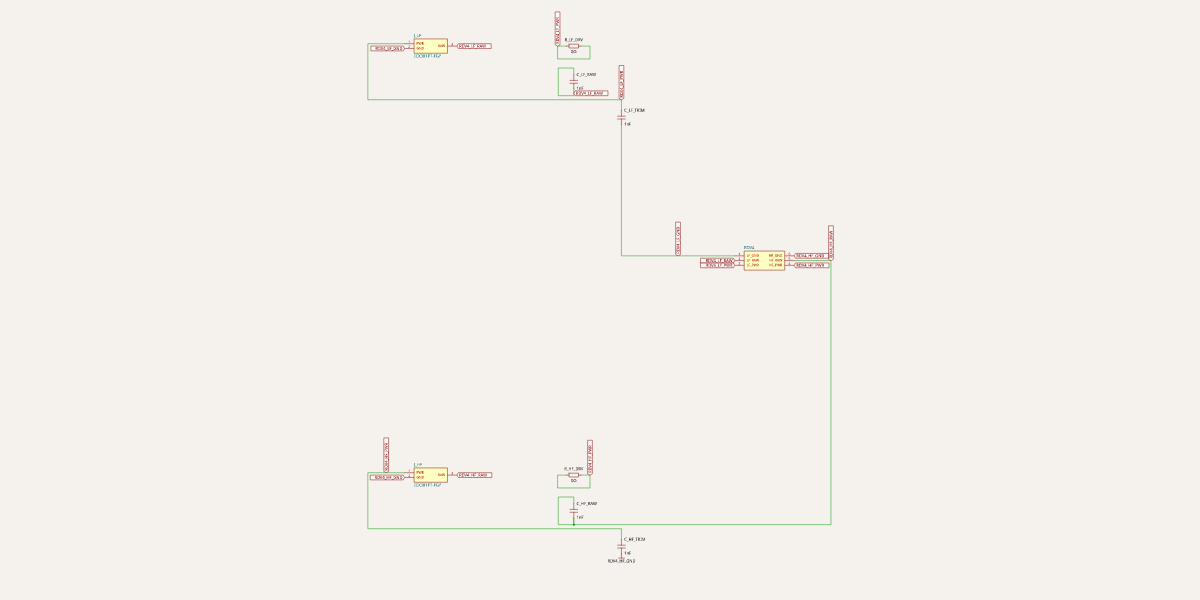
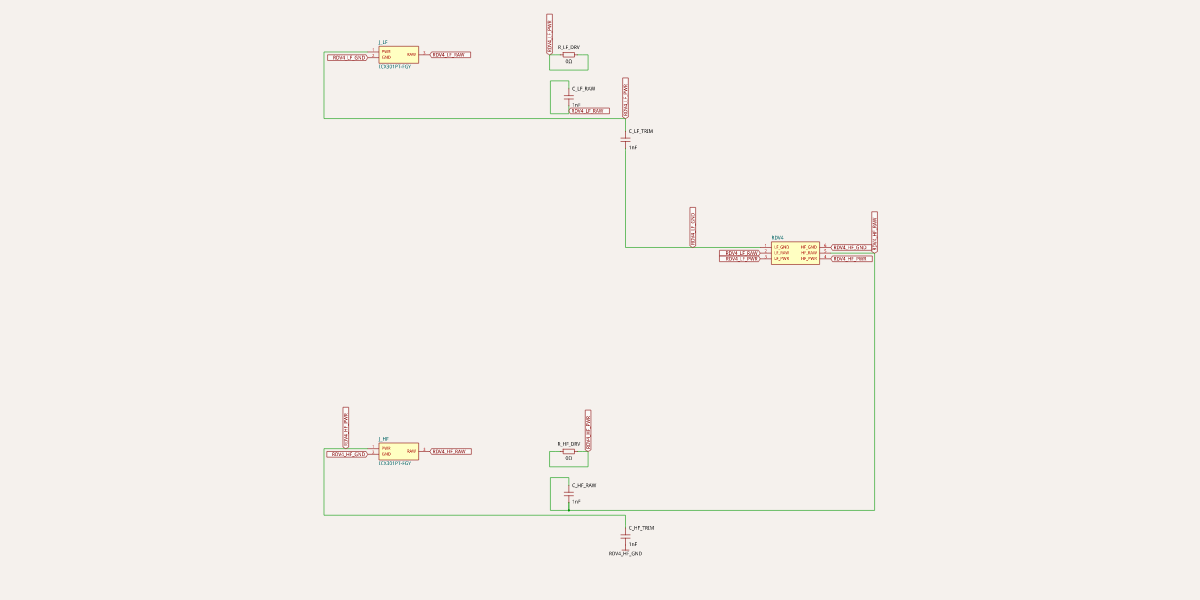
Place ICX301 connectors on top board edge (facing off-board, 22.1mm PM5 pitch); insertionDirection + decoupled passives

diff --git a/adapter/adapter.tsx b/adapter/adapter.tsx
@@ -3,13 +3,15 @@
  *
  *   PM5 mainboard (ICX301 male)
  *        │  plugs into
- *   ┌────────────────────────────────┐
- *   │ RDV4 col    ICX301-F x2 (LF/HF) │
- *   │ (left edge)      (inboard)      │
- *   │   …function-to-function RF…     │  optional trim pads (DNP)
- *   └────────────────────────────────┘
- *   RDV4 side = one vertical column of 6 round M1.6 SMT-nut lands
- *   (LF trio top, HF trio bottom); the antenna screws/clamps onto them.
+ *          ICX301-F x2  (top edge, mate the PM5, ~22.1 mm pitch)
+ *   ┌────────┴───────────────┴────────┐
+ *   │ RDV4 │  trim pads (DNP)         │
+ *   │ col  │  …function-to-function…  │
+ *   │(left)│                          │
+ *   └──────────────────────────────────┘
+ *   PM5 side  = two ICX301-F connectors on the TOP edge, mating face off-board.
+ *   RDV4 side = one vertical column of 6 round M1.6 SMT-nut lands on the LEFT
+ *   edge (LF trio top, HF trio bottom); the antenna screws/clamps onto them.
  *
  * Wiring is FUNCTION-TO-FUNCTION per band (never straight-through by position,
  * because the two boards mirror + band-swap — see README):
@@ -29,18 +31,22 @@ import { Rdv4Interface } from "./rdv4-pads";
 
 // ── Board / placement stubs ───────────────────────────────────────────────
 // TODO: real layout once ICX301PT-FGY + RDV4 mechanicals are confirmed.
-const BOARD_W = 42; // mm  TODO
-const BOARD_H = 45; // mm  TODO
-// RDV4 pad column sits on the board EDGE (like the antenna's own drawing) so the
-// antenna lines up flush; ICX301 connectors sit inboard of it.
+const BOARD_W = 44; // mm  TODO
+const BOARD_H = 46; // mm  TODO
+// RDV4 pad column on the LEFT edge (matches the antenna's own drawing).
 const RDV4_X = -(BOARD_W / 2) + 3; // mm, RDV4 column ~3 mm from left edge  TODO
-const CONN_X = 6; // mm, PM5-side ICX301 connectors (inboard)  TODO
-const LF_Y = 9; // mm, LF connector Y (aligns w/ upper RDV4 trio)  TODO
-const HF_Y = -9; // mm, HF connector Y (aligns w/ lower RDV4 trio)  TODO
-// PM5 mating geometry (proxmark3/doc/img/pm5/icx301-and-10p-header.jpg): the two
-// ICX301 connectors are SIDE-BY-SIDE, LF-DRV↔HF-DRV = 16 mm → centre pitch
-// 16 + 6.1 = ~22.1 mm. To plug into the PM5 both connectors must sit at that
-// pitch and orientation. TODO: real mating layout replaces the stub stack below.
+// PM5 ICX301 connectors on the TOP edge, mating face pointing off-board (+Y, via
+// the footprint's insertionDirection="from_top"), side-by-side at the PM5's real
+// centre pitch: LF-DRV↔HF-DRV 16 mm + 6.1 mm blade pitch = ~22.1 mm
+// (proxmark3/doc/img/pm5/icx301-and-10p-header.jpg). Both connectors must sit at
+// that pitch/orientation to plug into the PM5.
+const CONN_PITCH = 22.1; // mm, LF↔HF connector centre pitch  [PM5 drawing]
+const CONN_Y = BOARD_H / 2 - 4; // mm, top edge (facing +Y off-board)
+const PAIR_CX = 4; // mm, centre X of the connector pair (right of RDV4 column)
+const LF_X = PAIR_CX - CONN_PITCH / 2; // ≈ -7
+const HF_X = PAIR_CX + CONN_PITCH / 2; // ≈ +15
+// Trim passives sit mid-board (x offsets: R_DRV, C_RAW, C_TRIM), per-band Y.
+const PASSIVE_X = [-13, -9, -5];
 
 // Single RDV4 interface component; refdes reused by every band's traces.
 const RDV4 = "RDV4";
@@ -50,17 +56,17 @@ const RDV4 = "RDV4";
  * the caller; here we wire it function-to-function to the shared RDV4 interface.
  *
  * @param {object} props
- * @param {string} props.band - "LF" or "HF" (used for refdes + RDV4 port prefix)
- * @param {number} props.jx   - PM5 connector X (mm)
- * @param {number} props.jy   - PM5 connector Y (mm)
+ * @param {string} props.band     - "LF" or "HF" (refdes + RDV4 port prefix)
+ * @param {number} props.connX    - ICX301 connector X on the top edge (mm)
+ * @param {number} props.passiveY - Y for this band's mid-board trim passives (mm)
  */
-const Band = (props: { band: string; jx: number; jy: number }) => {
+const Band = (props: { band: string; connX: number; passiveY: number }) => {
 	const j = "J_" + props.band; // PM5-side ICX301
 	const p = props.band; // RDV4 port prefix (LF_* / HF_*)
 
 	return (
 		<>
-			<Icx301 name={j} pcbX={props.jx} pcbY={props.jy} schX={-6} schY={props.jy} />
+			<Icx301 name={j} pcbX={props.connX} pcbY={CONN_Y} schX={-6} schY={props.passiveY} />
 
 			{/* Function-to-function RF path — primary, always connected.
 			    This is the whole adapter electrically. */}
@@ -82,10 +88,10 @@ const Band = (props: { band: string; jx: number; jy: number }) => {
 				resistance="0"
 				footprint="0805"
 				doNotPlace
-				pcbX={-13}
-				pcbY={props.jy}
+				pcbX={PASSIVE_X[0]}
+				pcbY={props.passiveY}
 				schX={0}
-				schY={props.jy}
+				schY={props.passiveY}
 				connections={{
 					pin1: "." + j + " > .PWR",
 					pin2: "." + RDV4 + " > ." + p + "_PWR",
@@ -97,10 +103,10 @@ const Band = (props: { band: string; jx: number; jy: number }) => {
 				footprint="0805"
 				doNotPlace
 				schOrientation="vertical"
-				pcbX={-9}
-				pcbY={props.jy}
+				pcbX={PASSIVE_X[1]}
+				pcbY={props.passiveY}
 				schX={0}
-				schY={props.jy - 1.5}
+				schY={props.passiveY - 1.5}
 				connections={{
 					pin1: "." + j + " > .RAW",
 					pin2: "." + RDV4 + " > ." + p + "_RAW",
@@ -112,10 +118,10 @@ const Band = (props: { band: string; jx: number; jy: number }) => {
 				footprint="0805"
 				doNotPlace
 				schOrientation="vertical"
-				pcbX={-5}
-				pcbY={props.jy}
+				pcbX={PASSIVE_X[2]}
+				pcbY={props.passiveY}
 				schX={2}
-				schY={props.jy - 3}
+				schY={props.passiveY - 3}
 				connections={{
 					pin1: "." + j + " > .PWR",
 					pin2: "." + j + " > .GND",
@@ -132,8 +138,8 @@ export const Adapter = () => (
 		    mounting holes needed). */}
 		<Rdv4Interface name={RDV4} pcbX={RDV4_X} pcbY={0} schX={8} schY={0} />
 
-		<Band band="LF" jx={CONN_X} jy={LF_Y} />
-		<Band band="HF" jx={CONN_X} jy={HF_Y} />
+		<Band band="LF" connX={LF_X} passiveY={7} />
+		<Band band="HF" connX={HF_X} passiveY={-7} />
 	</board>
 );
 

diff --git a/adapter/icx301.tsx b/adapter/icx301.tsx
@@ -73,7 +73,9 @@ export const Icx301 = (props: {
 			[PIN_RAW]: "RAW",
 		}}
 		footprint={
-			<footprint>
+			// Right-angle SMT connector: the plug mates from the front (+Y) face,
+			// so the part must sit on a board edge with +Y pointing off-board.
+			<footprint insertionDirection="from_top">
 				{/* Left power blade */}
 				<smtpad
 					portHints={[PIN_PWR]}
